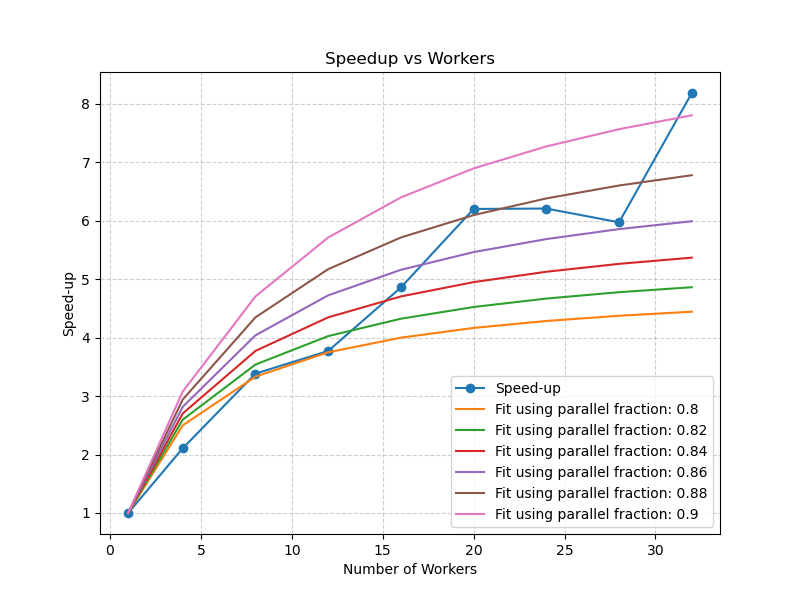
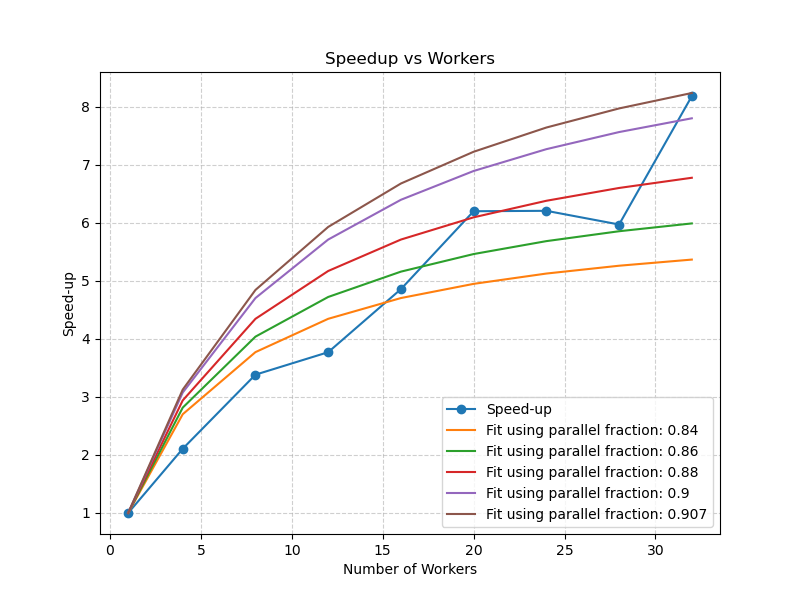
task 5,6 and 10

diff --git a/src/Task5_calculations_and_plots.py b/src/Task5_calculations_and_plots.py
@@ -8,12 +8,13 @@ times = numpy_load[:,1]
 speedup = times[0]/times 
 
 # Ahmdals law - we play with fraction F.
-F = np.array([0.8,0.82,0.84,0.86,0.88,0.9] )
+F = np.array([0.84,0.86,0.88,0.9,0.907] )
 speedup_ahmdahl = []
 for i in range(len(F)):
     speedup_a = 1/((1-F[i])+F[i]/processes)
     speedup_ahmdahl.append(speedup_a)
 
+print("last element in list:", speedup_ahmdahl[-1][-1])
 
 plt.figure(figsize=(8, 6))
 plt.plot(processes, speedup, marker = 'o', label = "Speed-up")
@@ -26,15 +27,30 @@ plt.legend()
 plt.grid(True, linestyle='--', alpha=0.6)
 
 figure_name='Task_5_estimationofparallelfraction_32s_evn26.png' # ændre navn for kun speedup plot
+#figure_name='Task_5_speedup_32s_evn26.png'
 save_path = os.path.join('..', 'figures', figure_name)
 plt.savefig(save_path)
 
 #### Theoretical speed up - We use S(oo)=1/(1-F), can only be found after F is found
-para_fraction = 0.84 # chosen from the plot
+para_fraction = 0.88 # chosen from the plot
 theo_speed = 1/(1-para_fraction)
-print(f"Theoretical speedup: {theo_speed}")
+print(f"Theoretical speedup using F:0.88: {theo_speed}")
+
+#### Theoretical speed up - We use S(oo)=1/(1-F), can only be found after F is found
+para_fraction = 0.907 # chosen from the plot
+theo_speed = 1/(1-para_fraction)
+print(f"Theoretical speedup using F:0.907: {theo_speed}")
+## We reach 4.8 ish speed up at 14 cores. 
 ## We reach 4.8 ish speed up at 14 cores. 
 
 #### Time it takes to process all the floor plans using best parallelization
 # Must be found by dividing our estimate for T(1) for all floorplans, see overleaf, by the speed up we have. 
-print("How much time it would take using 14 cores:", 56681.07/speedup[7]) # This 3,27 hours 
+
+print("speedup 32", speedup[-1])
+print("speedup 28,",speedup[-2])
+print("How much time it would take using 32 cores:", 51149.49/speedup[-1]) # This 3,27 hours 
+
+
+print("How much time it would take using 28 cores:", 51149.49/speedup[-2]) # This 3,27 hours 
+
+

diff --git a/src/Task6_calculations_and_plots.py b/src/Task6_calculations_and_plots.py
@@ -9,17 +9,17 @@ speedup = times[0]/times
 print(speedup)
 
 # Ahmdals law - we play with fraction F.
-#F = np.array([0.8,0.82,0.84,0.86,0.88,0.9] )
-#speedup_ahmdahl = []
-#for i in range(len(F)):
-    #speedup_a = 1/((1-F[i])+F[i]/processes)
-    #speedup_ahmdahl.append(speedup_a)
+F = np.array([0.88,0.9, 0.92] )
+speedup_ahmdahl = []
+for i in range(len(F)):
+    speedup_a = 1/((1-F[i])+F[i]/processes)
+    speedup_ahmdahl.append(speedup_a)
 
-
+print("max speedup at 30 coures", speedup_ahmdahl[-1][-2])
 plt.figure(figsize=(8, 6))
 plt.plot(processes, speedup, marker = 'o', label = "Speed-up")
-#for i in range(len(F)):
-    #plt.plot(processes, speedup_ahmdahl[i], label = f"Fit using parallel fraction: {F[i]}") # Udkommenter dette for kun speed-up plot.
+for i in range(len(F)):
+    plt.plot(processes, speedup_ahmdahl[i], label = f"Fit using parallel fraction: {F[i]}") # Udkommenter dette for kun speed-up plot.
 plt.xlabel('Number of Workers')
 plt.ylabel('Speed-up')
 plt.title('Speedup vs Workers')
@@ -35,4 +35,5 @@ plt.savefig(save_path)
 
 #### Time it takes to process all the floor plans using best parallelization
 # Must be found by dividing our estimate for T(1) for all floorplans, see overleaf, by the speed up we have. 
-print("How much time it would take using 16 cores:", 56681.07/speedup[-1]) # This is 2.3 hours, so better with dynamic
+print("speedup at 28 cores", speedup[-2])
+print("How much time it would take using 16 cores:", 51149.49/speedup[-2]) # This is 2.3 hours, so better with dynamic

diff --git a/src/time_plots_task10.py b/src/time_plots_task10.py
@@ -7,12 +7,12 @@ import os
 # From errorfile Tast Task2_29094101
 buildings = np.array([10,12,14,16,18,20])
 time_real = np.array([
-    0.720,
-    0.659,
-    0.670,
-    0.644,
-    0.697,
-    0.701
+    11.441582202911377,
+    13.65561032295227,
+    14.53552770614624,
+    15.15862226486206,
+    17.12391686439514,
+    19.195929765701294
 ])
 
 

diff --git a/src/Task10.py b/src/Task10.py
@@ -25,15 +25,18 @@ def jacobi(u, interior_mask, max_iter, atol=1e-6, check_every=10000):
     for i in range(max_iter):
         u_new[:] = 0.25 * (u[1:-1, :-2] + u[1:-1, 2:] + u[:-2, 1:-1] + u[2:, 1:-1])
 
-        # Apply mask (GPU)
-        u_inner[interior_mask] = u_new[interior_mask]
-
         # Convergence check (reduced frequency)
         if i % check_every == 0:
             delta = cp.abs(u_inner[interior_mask] - u_new[interior_mask]).max()
             # Only here we sync (via float conversion)
             if float(delta) < atol:
                 break
+
+        # Apply mask (GPU)
+        #u_inner[interior_mask] = u_new[interior_mask]
+
+        # With this (dense element-wise operation):
+        u[1:-1, 1:-1] = cp.where(interior_mask, u_new, u_inner)
 
     return u
 

diff --git a/src/Task10_2.py b/src/Task10_2.py
@@ -15,7 +15,7 @@ def load_data(load_dir, bid):
     return u, interior_mask
 
 
-def jacobi(u, interior_mask, max_iter, atol=1e-6):
+def jacobi(u, interior_mask, max_iter):
     u = cp.copy(u)
 
     # Pre-allocate once
@@ -65,7 +65,7 @@ if __name__ == '__main__':
         all_interior_mask[i] = interior_mask
 
     # Run jacobi iterations for each floor plan
-    MAX_ITER = 20_000
+    MAX_ITER = 10000 #20_000
     ABS_TOL = 1e-4
 
     t_start=time()